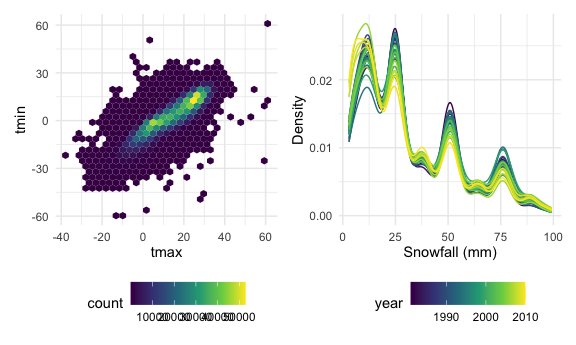
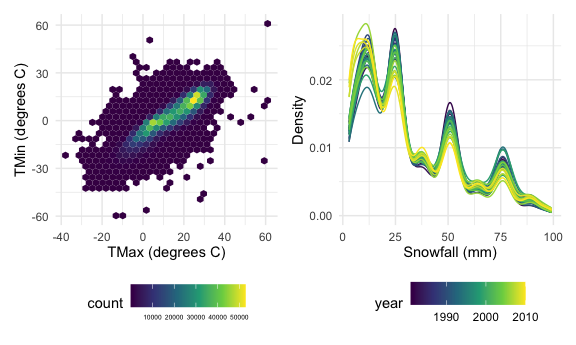
knitted attempts at problems 2 and 3

diff --git a/p8105_hw3_jl2361.md b/p8105_hw3_jl2361.md
@@ -327,7 +327,10 @@ tmax_tmin =
   drop_na(c(tmax, tmin)) %>%
   ggplot(
     aes(x = tmax, y = tmin)) + 
-  geom_hex()
+  geom_hex() + 
+  labs(x = "TMax (degrees C)",
+       y = "TMin (degrees C)") +
+  theme(legend.text = element_text(size = 5))
  
 snowfall = 
   noaa_df %>%
